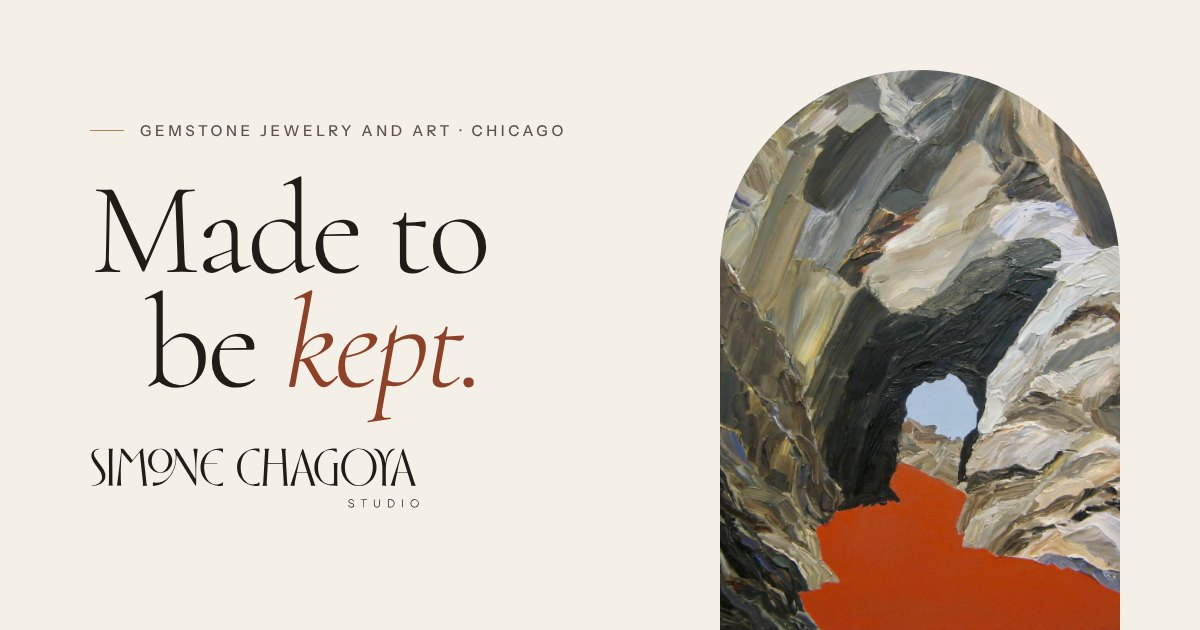
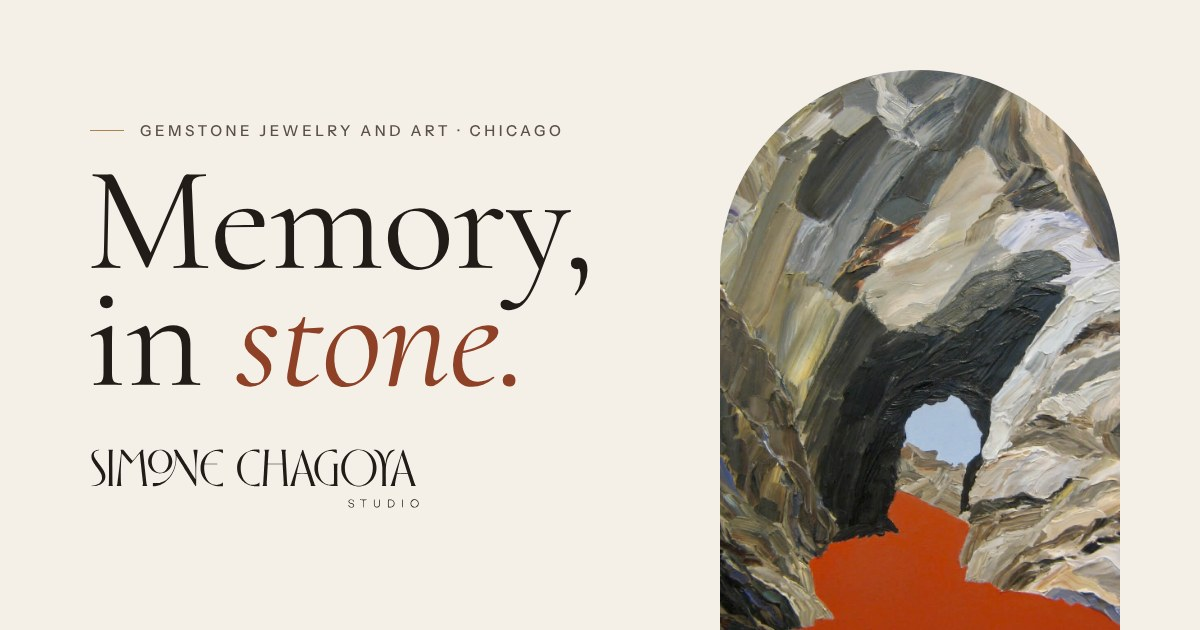
Update the social share image to "Memory, in stone."
The Open Graph and Twitter card image still showed the old "Made to be
kept." headline. Regenerate it with the current homepage h1 in the same
layout, and keep the source as scripts/og so the next headline change
is one command. A version query on the default og:image URL nudges
link-preview caches to fetch the new file.

Claude-Session: https://claude.ai/code/session_01Tiw1imrKxYqsoF5ph8vcoo

diff --git a/scripts/og/og.html b/scripts/og/og.html
@@ -1,0 +1,30 @@
+<!doctype html>
+<html>
+<head>
+<meta charset="utf-8" />
+<style>
+  @font-face { font-family: 'Cormorant'; font-style: normal; font-weight: 300 700; src: url('../../node_modules/@fontsource-variable/cormorant/files/cormorant-latin-wght-normal.woff2') format('woff2'); }
+  @font-face { font-family: 'Cormorant'; font-style: italic; font-weight: 300 700; src: url('../../node_modules/@fontsource-variable/cormorant/files/cormorant-latin-wght-italic.woff2') format('woff2'); }
+  @font-face { font-family: 'Instrument Sans'; font-weight: 400 700; src: url('../../node_modules/@fontsource-variable/instrument-sans/files/instrument-sans-latin-wght-normal.woff2') format('woff2'); }
+  * { margin: 0; box-sizing: border-box; }
+  html, body { width: 1200px; height: 630px; background: #f4efe7; overflow: hidden; }
+  .copy { position: absolute; left: 90px; top: 0; }
+  .eyebrow { position: absolute; top: 121px; left: 0; white-space: nowrap; display: flex; align-items: center; gap: 16px; font: 500 15px 'Instrument Sans', sans-serif; letter-spacing: 0.235em; text-transform: uppercase; color: #5b5048; }
+  .eyebrow::before { content: ''; width: 34px; height: 1px; background: #a9844e; }
+  h1 { position: absolute; top: 162px; left: -4px; font: 400 150px/0.78 'Cormorant', serif; letter-spacing: -0.01em; color: #211c17; white-space: nowrap; }
+  h1 span { display: block; }
+  h1 em { font-style: italic; color: #8e4126; }
+  .logo { position: absolute; top: 448px; left: 0; width: 330px; }
+  .arch { position: absolute; left: 720px; top: 70px; width: 400px; height: 600px; border-radius: 200px 200px 0 0; overflow: hidden; }
+  .arch img { width: 100%; height: 100%; object-fit: cover; object-position: center 30%; }
+</style>
+</head>
+<body>
+  <div class="copy">
+    <p class="eyebrow">Gemstone jewelry and art · Chicago</p>
+    <h1><span>Memory,</span><span>in <em>stone.</em></span></h1>
+    <img class="logo" src="../../public/brand/simone-chagoya-lockup.svg" alt="" />
+  </div>
+  <div class="arch"><img src="../../src/assets/art/altered-beliefs.jpg" alt="" /></div>
+</body>
+</html>
